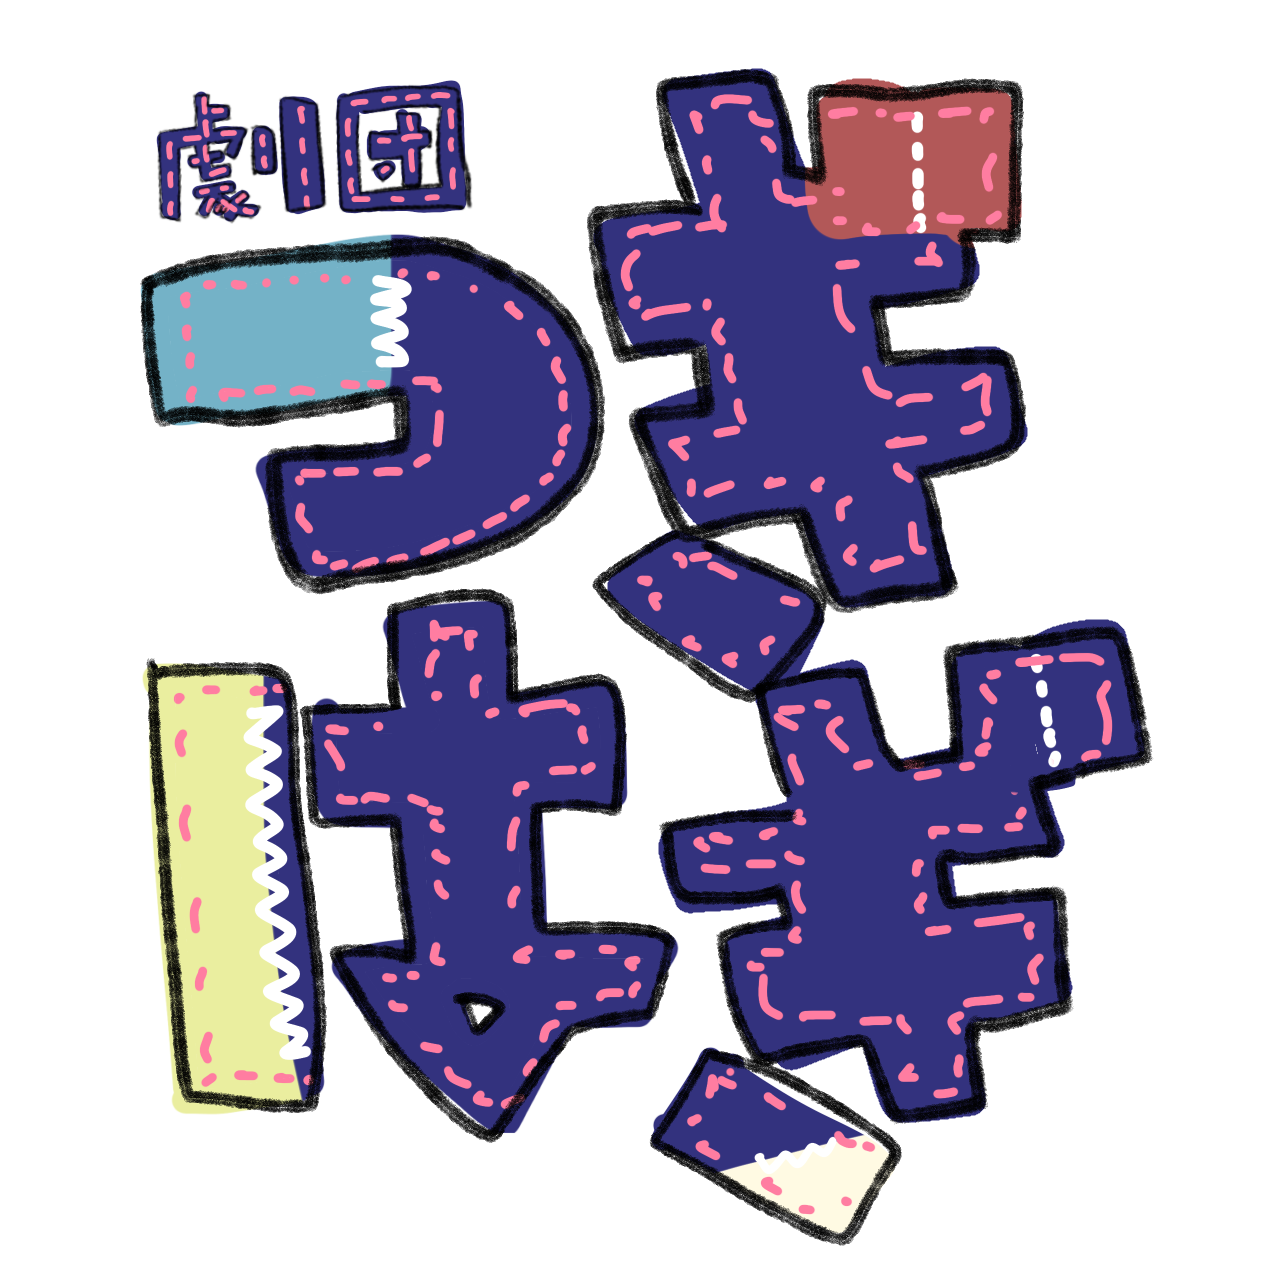
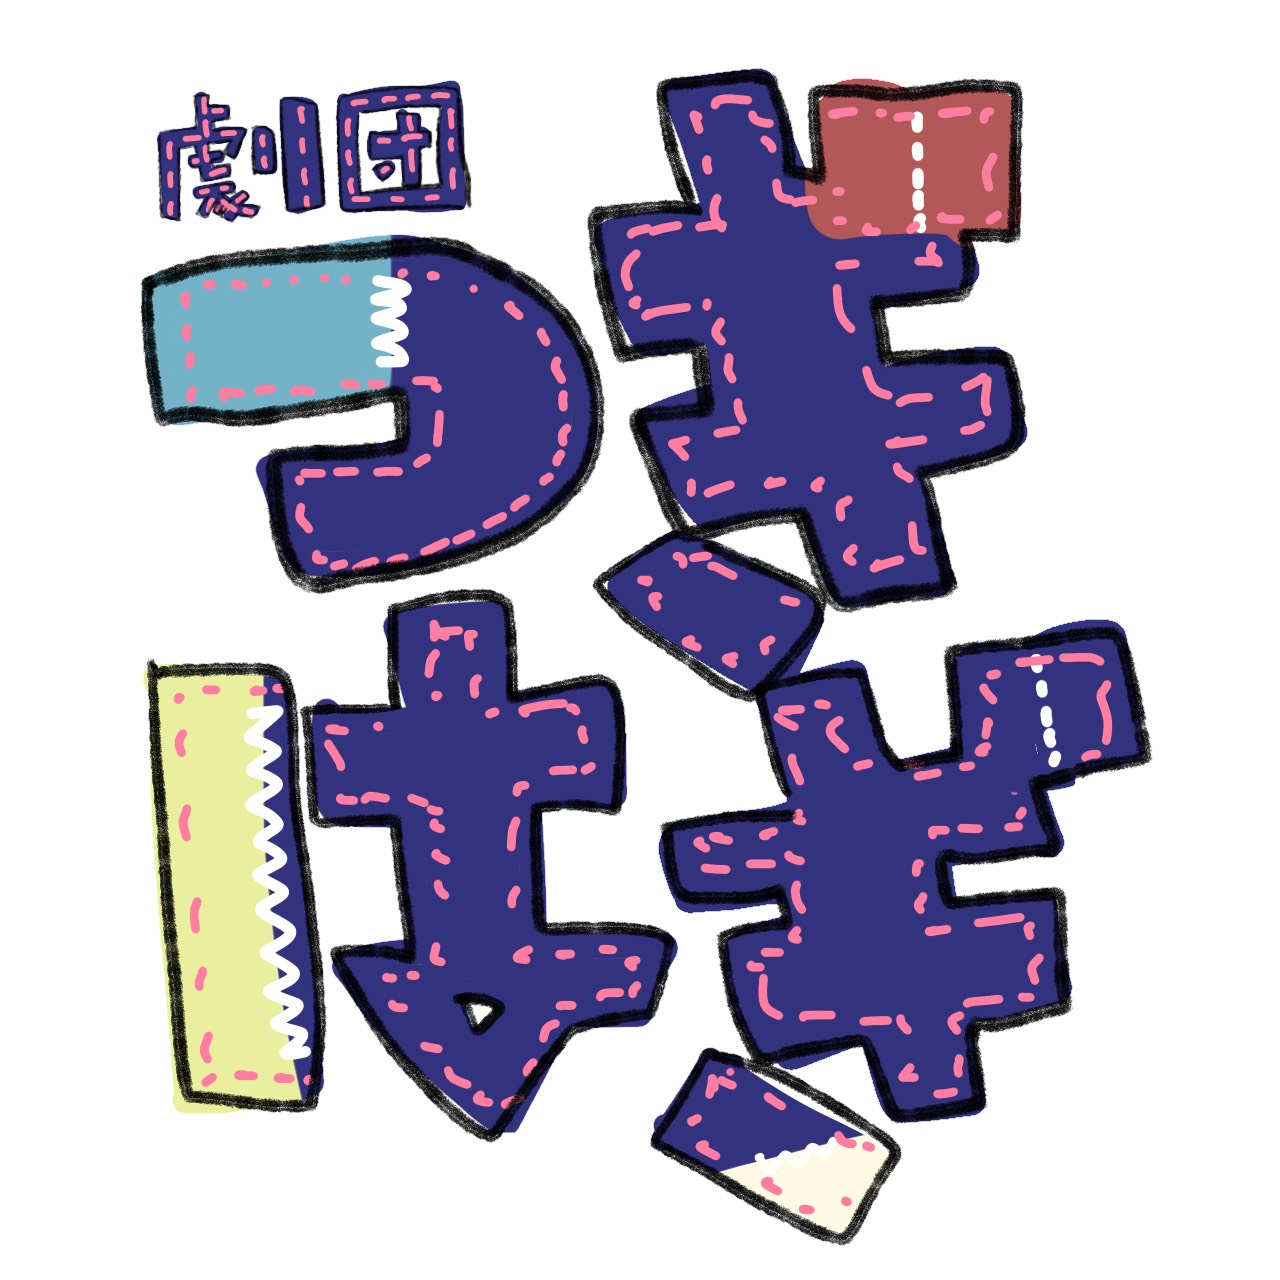
icon_transparent

Changed region(s): [[0.1562, 0.125, 0.1875, 0.1562]]

diff --git a/homepage/home.html b/homepage/home.html
@@ -66,7 +66,7 @@
 
 <header>
   <h1>
-    <img src="images/icon.png" alt="劇団アイコン" class="icon">
+    <img src="images/icon_transparent.png" alt="劇団アイコン" class="icon">
     劇団つぎはぎ
   </h1>
   <p>つぎはぎが紡ぐ、あなたの物語</p>
